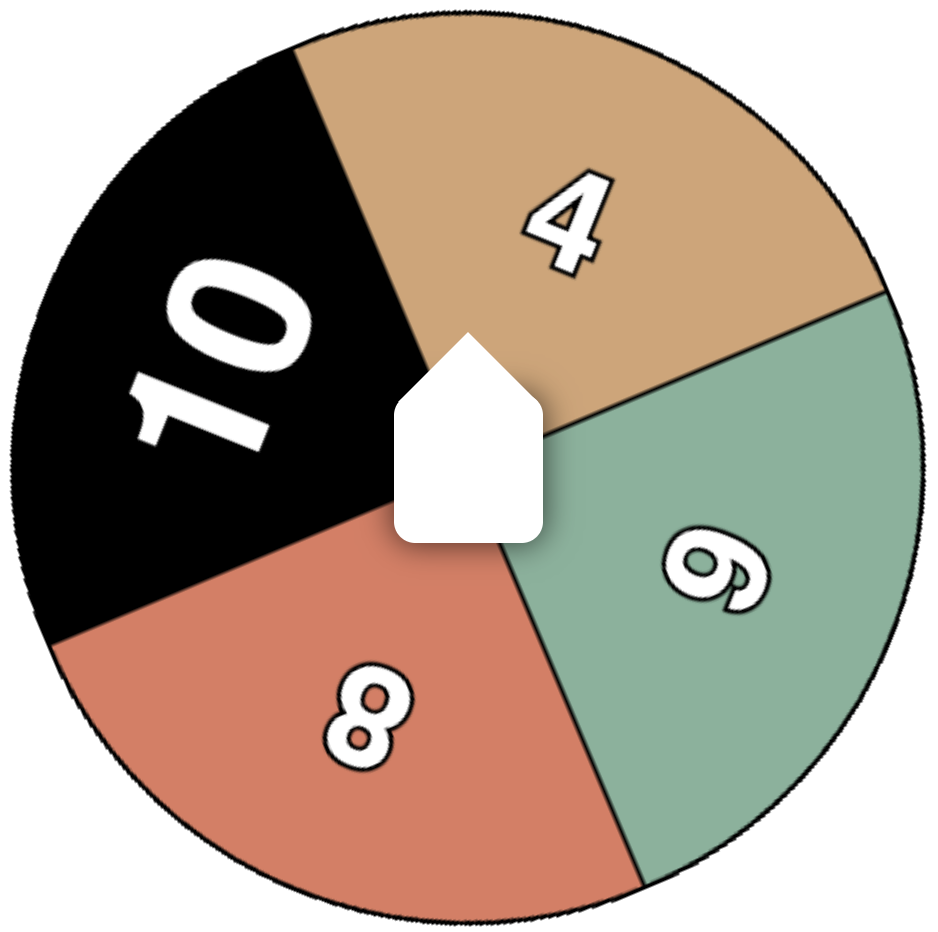
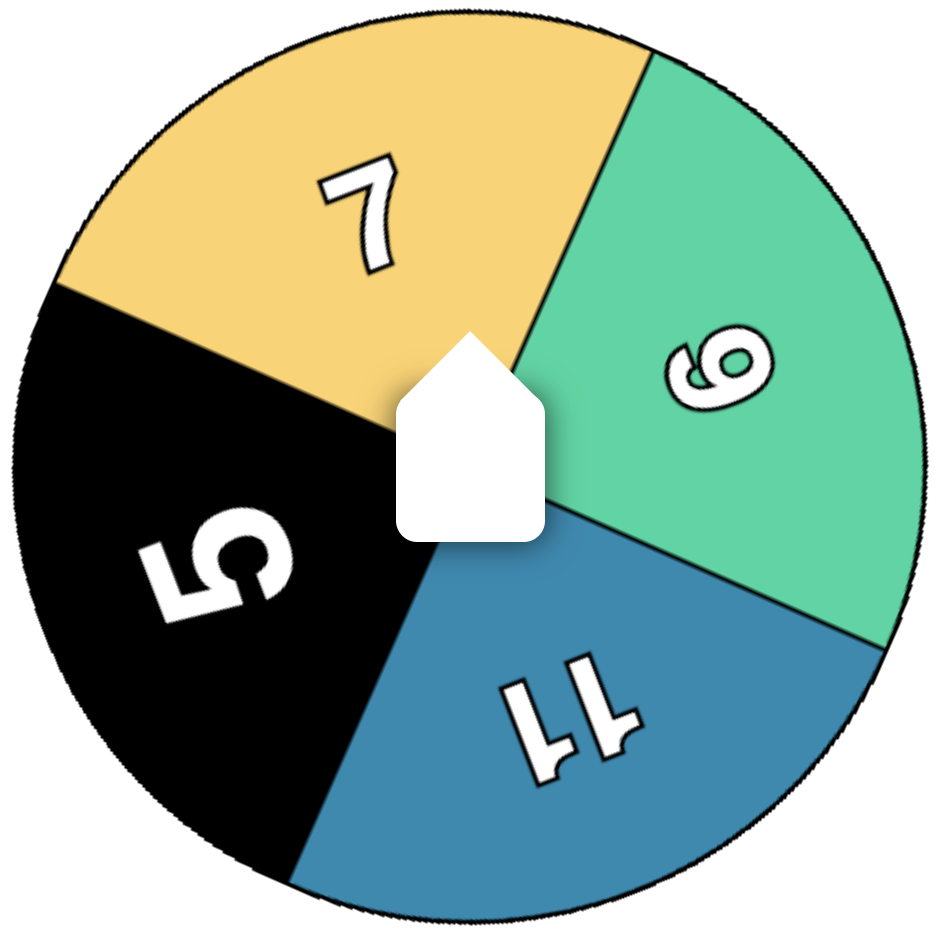
full range

diff --git a/jsFiles/exp.js b/jsFiles/exp.js
@@ -23,7 +23,7 @@ const exp = (function() {
 
             `<div class='parent'>
                 <p>Each wheel is divided into four wedges, like this:</p>
-                <img src="./img/arrow-blank.png" style="width:50%; height:50%">
+                <img src="./img/arrow-up.png" style="width:50%; height:50%">
             </div>`,
 
             `<div class='parent'>
@@ -34,7 +34,7 @@ const exp = (function() {
 
             `<div class='parent'>
                 <p>The number on the activated wedge is added to your total score.</p>
-                <p>In this example, you'd gain 4 points.</p>
+                <p>In this example, you'd gain 5 points.</p>
                 <img src="./img/standard-outcome.png" style="width:50%; height:50%">
             </div>`,
 
@@ -53,23 +53,28 @@ const exp = (function() {
             </div>`,
 
             `<div class='parent'>
-                <p>The chance of a standard outcome is displayed at the center of each wheel.</p>
-                <p>This wheel has a 70% chance of a standard outcome and a 30% chance of a random outcome:</p>
-                <img src="./img/arrow-70-up.png" style="width:50%; height:50%">      
+                <p>The chance of a random outcome is displayed below each wheel.</p>
+                <p>This wheel has a 25% chance of a random outcome:</p>
+                <img src="./img/arrow-25.png" style="width:50%; height:50%">      
             </div>`,
 
             `<div class='parent'>
-                <p>Different wheels have different probabilities of standard outcomes.</p>
+                <p>Different wheels have different probabilities of random outcomes.</p>
             </div>`,
 
             `<div class='parent'>
-                <p>This wheel has a 40% chance of a standard outcome and a 60% chance of a random outcome:</p>
-                <img src="./img/arrow-40-up.png" style="width:50%; height:50%">      
+                <p>This wheel has a 0% chance of a random outcome:</p>
+                <img src="./img/arrow-0.png" style="width:50%; height:50%">      
             </div>`,
 
             `<div class='parent'>
-                <p>This wheel has a 100% chance of a standard outcome and a 0% chance of a random outcome:</p>
-                <img src="./img/arrow-100-up.png" style="width:50%; height:50%">      
+                <p>This wheel has a 50% chance of a random outcome:</p>
+                <img src="./img/arrow-50.png" style="width:50%; height:50%">      
+            </div>`,
+
+            `<div class='parent'>
+                <p>This wheel has a 75% chance of a random outcome:</p>
+                <img src="./img/arrow-75.png" style="width:50%; height:50%">      
             </div>`,
 
             `<div class='parent'>
@@ -78,22 +83,22 @@ const exp = (function() {
 
             `<div class='parent'>
                 <p>Sometimes the arrow will point up:</p>
-                <img src="./img/arrow-70-up.png" style="width:50%; height:50%">      
+                <img src="./img/arrow-up.png" style="width:50%; height:50%">      
             </div>`,
 
             `<div class='parent'>
                 <p>Sometimes the arrow will point right:</p>
-                <img src="./img/arrow-70-right.png" style="width:50%; height:50%">      
+                <img src="./img/arrow-right.png" style="width:50%; height:50%">      
             </div>`,
 
             `<div class='parent'>
                 <p>Sometimes the arrow will point left:</p>
-                <img src="./img/arrow-70-left.png" style="width:50%; height:50%">      
+                <img src="./img/arrow-left.png" style="width:50%; height:50%">      
             </div>`,
 
             `<div class='parent'>
                 <p>Sometimes the arrow will point down:</p>
-                <img src="./img/arrow-70-down.png" style="width:50%; height:50%">      
+                <img src="./img/arrow-down.png" style="width:50%; height:50%">      
             </div>`],
 
         postIntro: [
@@ -132,7 +137,7 @@ const exp = (function() {
         allow_keys: false,
     };
 
-    let correctAnswers = [`40%`, `70%`, `100%`, `Earn as many points as possible.`];
+    let correctAnswers = [`25%`, `50%`, `75%`, `100%`, `Earn as many points as possible.`];
 
     const errorMessage = {
         type: jsPsychInstructions,
@@ -148,23 +153,28 @@ const exp = (function() {
             </div>`,
         questions: [
             {
-                prompt: `What are your chances of earning 10 points if you land on a 10 and the wheel says "40%"?`, 
+                prompt: `If you land on a 10 and there's a 75% chance of a random outcome, what are your chances of earning 10 points?`, 
                 name: `attnChk1`, 
-                options: [`40%`, `70%`, `100%`],
+                options: ['100%', '75%', '50%', '25%'],
             },
             {
-                prompt: `What are your chances of earning 10 points if you land on a 10 and the wheel says "70%"?`, 
+                prompt: `If you land on a 10 and there's a 50% chance of a random outcome, what are your chances of earning 10 points?`, 
                 name: `attnChk2`, 
-                options: [`40%`, `70%`, `100%`],
+                options: ['100%', '75%', '50%', '25%'],
             },
             {
-                prompt: `What are your chances of earning 10 points if you land on a 10 and the wheel says "100%"?`, 
-                name: `attnChk3`, 
-                options: [`40%`, `70%`, `100%`],
+                prompt: `If you land on a 10 and there's a 25% chance of a random outcome, what are your chances of earning 10 points?`, 
+                name: `attnCh3`, 
+                options: ['100%', '75%', '50%', '25%'],
+            },
+            {
+                prompt: `If you land on a 10 and there's a 0% chance of a random outcome, what are your chances of earning 10 points?`, 
+                name: `attnCh4`, 
+                options: ['100%', '75%', '50%', '25%'],
             },
             {
                 prompt: `What is your goal?`, 
-                name: `attnChk4`, 
+                name: `attnChk5`, 
                 options: [`Get as many standard outcomes as possible.`, `Get as many random outcomes as possible.`, `Earn as many points as possible.`],
             },
         ],
@@ -212,11 +222,11 @@ const exp = (function() {
     *
     */
 
-//    let colors = [["#E8896A", "#71B1A1"], ["#E2A76F", "#6897BB"], ["#D98F8D", "#A7C957"]];
     let colors = [
-        ["#D4A373", "#81B29A", "#E07A5F", "#3D405B"], 
+     //   ["#D4A373", "#81B29A", "#E07A5F", "#3D405B"], 
         ["#6A9FB5", "#F4D35E", "#EE964B", "#736CED"], 
-        ["#EF476F", "#FFD166", "#06D6A0", "#118AB2"]];
+        ["#EF476F", "#FFD166", "#06D6A0", "#118AB2"]
+    ];
 
     colors = jsPsych.randomization.repeat(colors, 1);
 
@@ -224,35 +234,33 @@ const exp = (function() {
     const wedges = {
         one: {color: colors[0][0], font: 'white', label:"1", points: 1},
         three: {color: colors[0][1], font: 'white', label:"3", points: 3},
-        five: {color: colors[0][2], font: 'white', label:"5", points: 5},
-        seven: {color: colors[0][3], font: 'white', label:"7", points: 7},
-
+        five_1: {color: colors[0][2], font: 'white', label:"5", points: 5},
+        seven_1: {color: colors[0][3], font: 'white', label:"7", points: 7},
+/*
         three: {color: colors[1][0], font: 'white', label:"3", points: 3},
         five: {color: colors[1][1], font: 'white', label:"5", points: 5},
         seven: {color: colors[1][2], font: 'white', label:"7", points: 7},
         nine: {color: colors[1][3], font: 'white', label:"9", points: 9},
-
-        five: {color: colors[2][0], font: 'white', label:"5", points: 5},
-        seven: {color: colors[2][1], font: 'white', label:"7", points: 7},
-        nine: {color: colors[2][2], font: 'white', label:"9", points: 9},
-        eleven: {color: colors[2][3], font: 'white', label:"11", points: 11},
+*/
+        five_2: {color: colors[1][0], font: 'white', label:"5", points: 5},
+        seven_2: {color: colors[1][1], font: 'white', label:"7", points: 7},
+        nine: {color: colors[1][2], font: 'white', label:"9", points: 9},
+        eleven: {color: colors[1][3], font: 'white', label:"11", points: 11},
     };
 
 
     // define each wheel
     const wheels = [
 
-            {sectors: [ wedges.one, wedges.three, wedges.five, wedges.seven ], wheel_id: 1, reliability: 1, label: "100%", ev: 4, sd: 2, mi: 2},
-            {sectors: [ wedges.one, wedges.three, wedges.five, wedges.seven ], wheel_id: 2, reliability: .7, label: "70%", ev: 4, sd: 2, mi: .643},
-            {sectors: [ wedges.one, wedges.three, wedges.five, wedges.seven ], wheel_id: 3, reliability: .4, label: "40%", ev: 4, sd: 2, mi: .078},
+            {sectors: [ wedges.one, wedges.three, wedges.five_1, wedges.seven_1 ], wheel_id: 1, reliability: 1, label: "0%", ev: 4, sd: 2, mi: 2},
+            {sectors: [ wedges.one, wedges.three, wedges.five_1, wedges.seven_1 ], wheel_id: 2, reliability: .75, label: "25%", ev: 4, sd: 2, mi: .792},
+            {sectors: [ wedges.one, wedges.three, wedges.five_1, wedges.seven_1 ], wheel_id: 3, reliability: .5, label: "50%", ev: 4, sd: 2, mi: .208},
+            {sectors: [ wedges.one, wedges.three, wedges.five_1, wedges.seven_1 ], wheel_id: 3, reliability: .25, label: "75%", ev: 4, sd: 2, mi: 0},
 
-            {sectors: [ wedges.three, wedges.five, wedges.seven, wedges.nine ], wheel_id: 4, reliability: 1, label: "100%", ev: 6, sd: 2, mi: 2},
-            {sectors: [ wedges.three, wedges.five, wedges.seven, wedges.nine ], wheel_id: 5, reliability: .7, label: "70%", ev: 6, sd: 2, mi: .643},
-            {sectors: [ wedges.three, wedges.five, wedges.seven, wedges.nine ], wheel_id: 6, reliability: .4, label: "40%", ev: 6, sd: 2, mi: .078},
-
-            {sectors: [ wedges.five, wedges.seven, wedges.nine, wedges.eleven ], wheel_id: 7, reliability: 1, label: "100%", ev: 8, sd: 2, mi: 2},
-            {sectors: [ wedges.five, wedges.seven, wedges.nine, wedges.eleven ], wheel_id: 8, reliability: .7, label: "70%", ev: 8, sd: 2, mi: .643},
-            {sectors: [ wedges.five, wedges.seven, wedges.nine, wedges.eleven ], wheel_id: 9, reliability: .4, label: "40%", ev: 8, sd: 2, mi: .078},
+            {sectors: [ wedges.five_2, wedges.seven_2, wedges.nine, wedges.eleven ], wheel_id: 1, reliability: 1, label: "0%", ev: 8, sd: 2, mi: 2},
+            {sectors: [ wedges.five_2, wedges.seven_2, wedges.nine, wedges.eleven ], wheel_id: 2, reliability: .75, label: "25%", ev: 8, sd: 2, mi: .792},
+            {sectors: [ wedges.five_2, wedges.seven_2, wedges.nine, wedges.eleven ], wheel_id: 3, reliability: .5, label: "50%", ev: 8, sd: 2, mi: .208},
+            {sectors: [ wedges.five_2, wedges.seven_2, wedges.nine, wedges.eleven ], wheel_id: 3, reliability: .25, label: "75%", ev: 8, sd: 2, mi: 0},
 
         ];
 
@@ -268,6 +276,7 @@ const exp = (function() {
         score: function() {
             return scoreTracker
         },
+        random_prob: jsPsych.timelineVariable('label'),
         data: {wheel_id: jsPsych.timelineVariable('wheel_id'), ev: jsPsych.timelineVariable('ev'), sd: jsPsych.timelineVariable('sd'), reliability: jsPsych.timelineVariable('reliability'), mi: jsPsych.timelineVariable('mi')},
         on_finish: function(data) {
             data.round = round;
@@ -279,7 +288,7 @@ const exp = (function() {
     const flowMeasure = {
         type: jsPsychSurveyLikert,
         questions: [
-            {prompt: `During the last round,<br>how <b>immersed</b> and <b>engaged</b> did you feel spinning the wheel?`,
+            {prompt: `During the last round,<br>how <b>immersed</b> and <b>engrossed</b> did you feel spinning the wheel?`,
             name: `flow`,
             labels: ['0<br>A little', '1', '2', '3', '4', '5', '6', '7', '8', '9', '10<br>Extremely']},
         ],

diff --git a/jsFiles/plugin-canvas-button-response.js b/jsFiles/plugin-canvas-button-response.js
@@ -60,12 +60,7 @@ var jsPsychCanvasButtonResponse = (function (jspsych) {
               default: 0,
           },
           /** Minimum points per spin. */
-          upLabel: {
-              type: jspsych.ParameterType.STRING,
-              pretty_name: "Probability of flip",
-              default: 0,
-          },
-          downLabel: {
+          random_prob: {
               type: jspsych.ParameterType.STRING,
               pretty_name: "Probability of flip",
               default: 0,
@@ -91,8 +86,6 @@ var jsPsychCanvasButtonResponse = (function (jspsych) {
                 '<div class="score-board-title">Total Score</div>' +
                 '<div class="score-board-score" id="score" >' + trial.score + '</div>' +
               '</div>' +
-              '<div class="probs" id="topProb"></div>' +
-              '</div>' +
               '<div id="jspsych-canvas-button-response-stimulus">' +
                 '<canvas id="jspsych-canvas-stimulus" height="' +
                 trial.canvas_size[0] +
@@ -101,7 +94,7 @@ var jsPsychCanvasButtonResponse = (function (jspsych) {
                 '"></canvas>' +
                 '<div id="spinUp"></div>' +
               '</div>' +
-              '<div class="probs" id="bottomProb"></div>'
+              '<div class="probs"><b>' + trial.random_prob + '</b><br>chance of random outcome</div>'
 
           //show prompt if there is one
           if (trial.prompt !== null) {
@@ -162,7 +155,7 @@ var jsPsychCanvasButtonResponse = (function (jspsych) {
           }
           // end trial
           const waitForEnd = setInterval(function() {
-            if(spinnerData.outcomes_points.length >= 10) {
+            if(spinnerData.outcomes_points.length >= 12) {
               clearInterval(waitForEnd);
               setTimeout(after_response, 1250);
             }

diff --git a/index.html b/index.html
@@ -13,16 +13,17 @@
   <script src="./jsFiles/plugin-external-html.js"></script>
   <script src="./jsFiles/plugin-html-button-response.js"></script>
   <link href="./css/jspsych.css" rel="stylesheet" type="text/css"></link>
-  <link rel="preload" as="image" href="./img/arrow-40-up.png">
-  <link rel="preload" as="image" href="./img/arrow-70-up.png">
-  <link rel="preload" as="image" href="./img/arrow-70-down.png">
-  <link rel="preload" as="image" href="./img/arrow-70-left.png">
-  <link rel="preload" as="image" href="./img/arrow-70-right.png">
-  <link rel="preload" as="image" href="./img/arrow-100-up.png">
-  <link rel="preload" as="image" href="./img/arrow-blank.png">
+  <link rel="preload" as="image" href="./img/arrow-up.png">
+  <link rel="preload" as="image" href="./img/arrow-down.png">
+  <link rel="preload" as="image" href="./img/arrow-left.png">
+  <link rel="preload" as="image" href="./img/arrow-right.png">
+  <link rel="preload" as="image" href="./img/arrow-0.png">
+  <link rel="preload" as="image" href="./img/arrow-25.png">
+  <link rel="preload" as="image" href="./img/arrow-50.png">
+  <link rel="preload" as="image" href="./img/arrow-75.png">
   <link rel="preload" as="image" href="./img/random-outcome.png">
   <link rel="preload" as="image" href="./img/standard-outcome.png">
-  <link rel="preload" as="image" href="./img/spin-vic.gif">
+  <link rel="preload" as="image" href="./img/spin-gif.gif">
   <title>Spinner</title>
 </head>
   <body>

diff --git a/jsFiles/utils.js b/jsFiles/utils.js
@@ -70,8 +70,8 @@ const createSpinner = function(canvas, spinnerData, score, sectors, reliability,
   const direction_idxs = jsPsych.randomization.repeat([0, 0, 0, 1, 1, 1, 2, 2, 2, 3, 3, 3], 1);
 
   /* flip variables */
-  const nFlips = 10 * reliability;
-  let flip_array = Array(nFlips).fill(0).concat(Array(10-nFlips).fill(1));
+  const nFlips = 12 * reliability;
+  let flip_array = Array(nFlips).fill(0).concat(Array(12-nFlips).fill(1));
   flip_array = jsPsych.randomization.repeat(flip_array, 1);
   const flipFunc = function(arr, n) {
     const filteredArr = arr.filter((_, index) => index !== n);
@@ -233,8 +233,8 @@ const createSpinner = function(canvas, spinnerData, score, sectors, reliability,
     setTimeout(() => {
       scoreMsg.innerHTML = `${score}`
       drawSector(sectors, null, null, null);
-      isSpinning = (spinnerData.outcomes_points.length >= 10) ? true : false;
-      direction_idx = (spinnerData.outcomes_points.length >= 10) ? direction_idx : direction_idxs.pop();
+      isSpinning = (spinnerData.outcomes_points.length >= 12) ? true : false;
+      direction_idx = (spinnerData.outcomes_points.length >= 12) ? direction_idx : direction_idxs.pop();
       pointer.className = directions[direction_idx];
       pointer.innerHTML = label;
       onWheel ? canvas.style.cursor = "grab" : canvas.style.cursor = "";

diff --git a/css/jspsych.css b/css/jspsych.css
@@ -570,7 +570,7 @@
   height: 14%;
   margin: -7%;
   color: white;
-  background: black;
+  background: white;
   box-shadow: 0 0 0 4px white, 0 0px 15px 5px rgba(0, 0, 0, 0.6);
   border-radius: 10%;
   font-weight: bold;
@@ -697,6 +697,5 @@
 .probs {
     font-size: 32px;
     color: black;
-    font-weight: bold;
-    margin-bottom: 5px;
+    line-height: 37px;
 }
